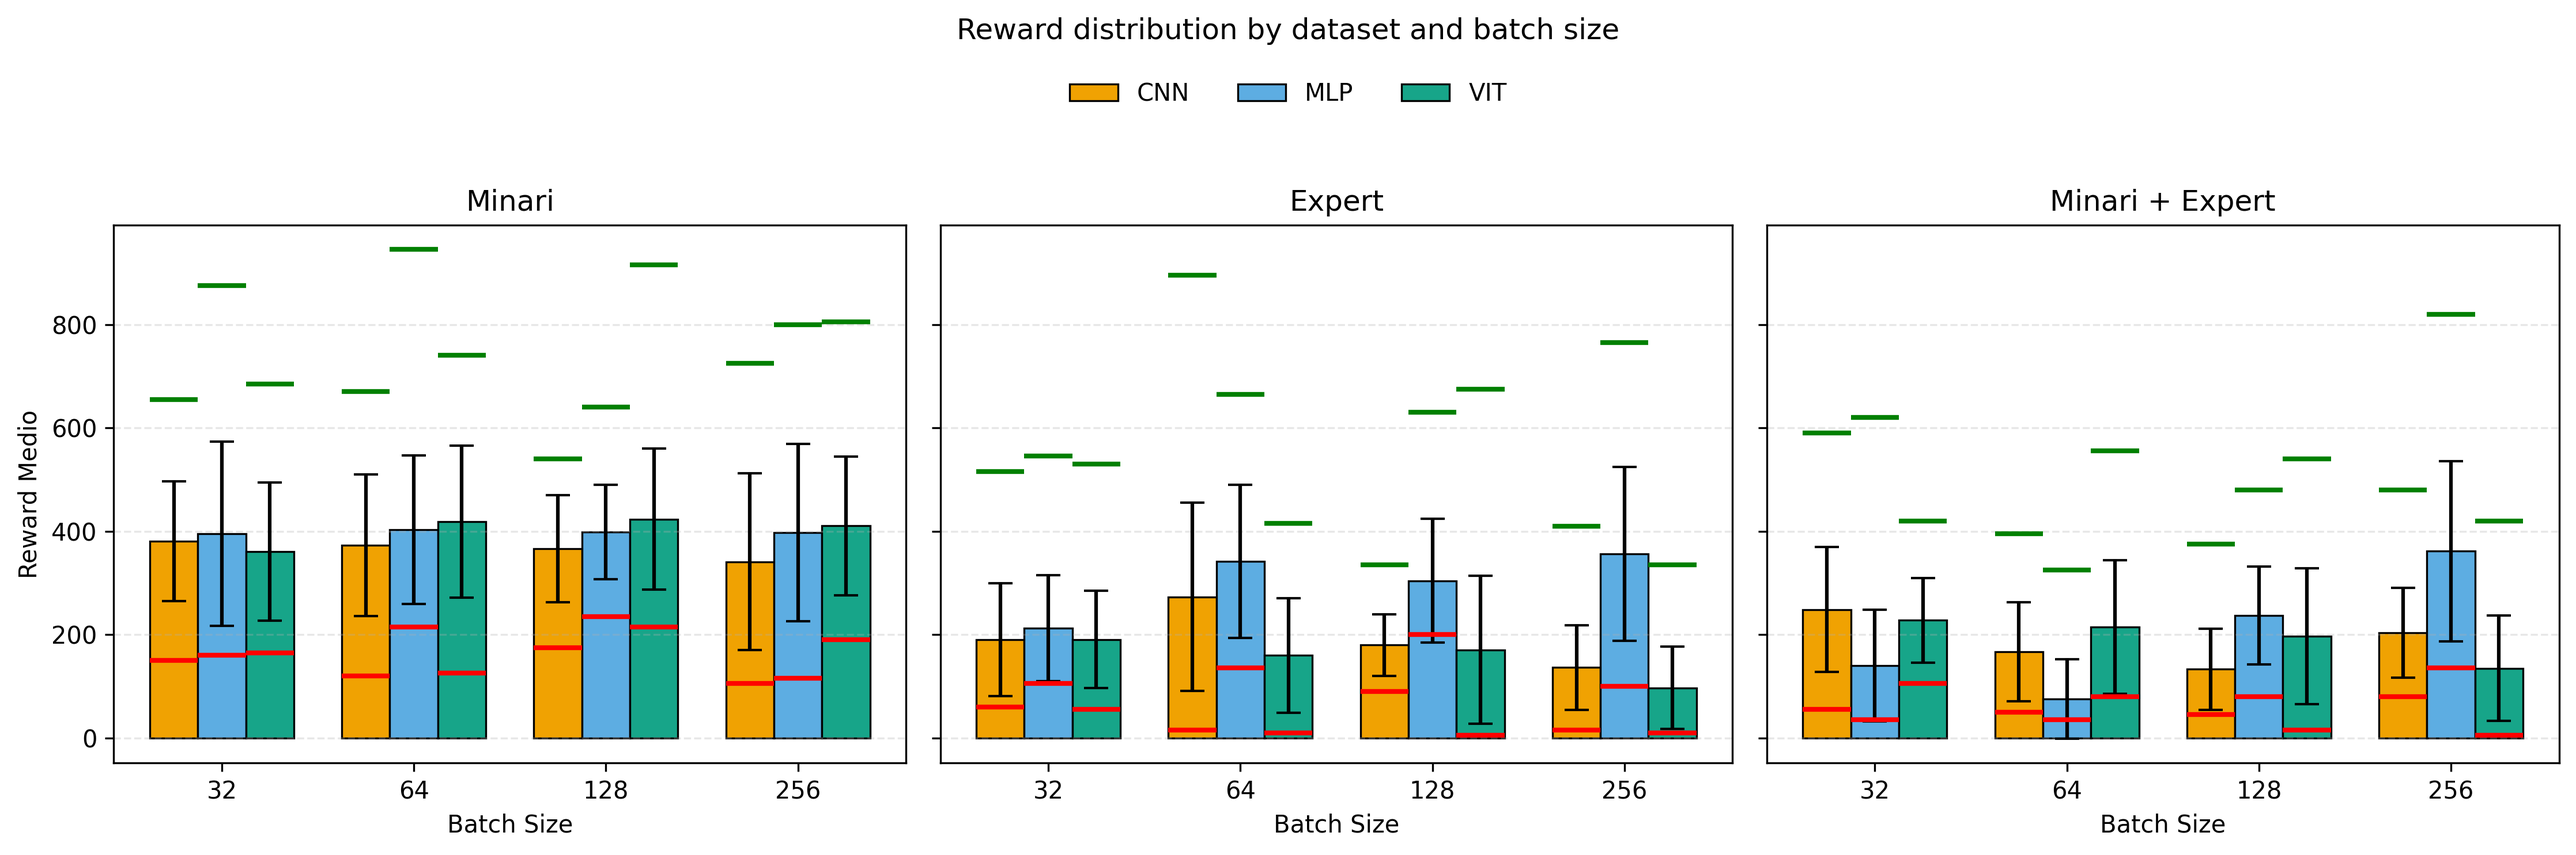
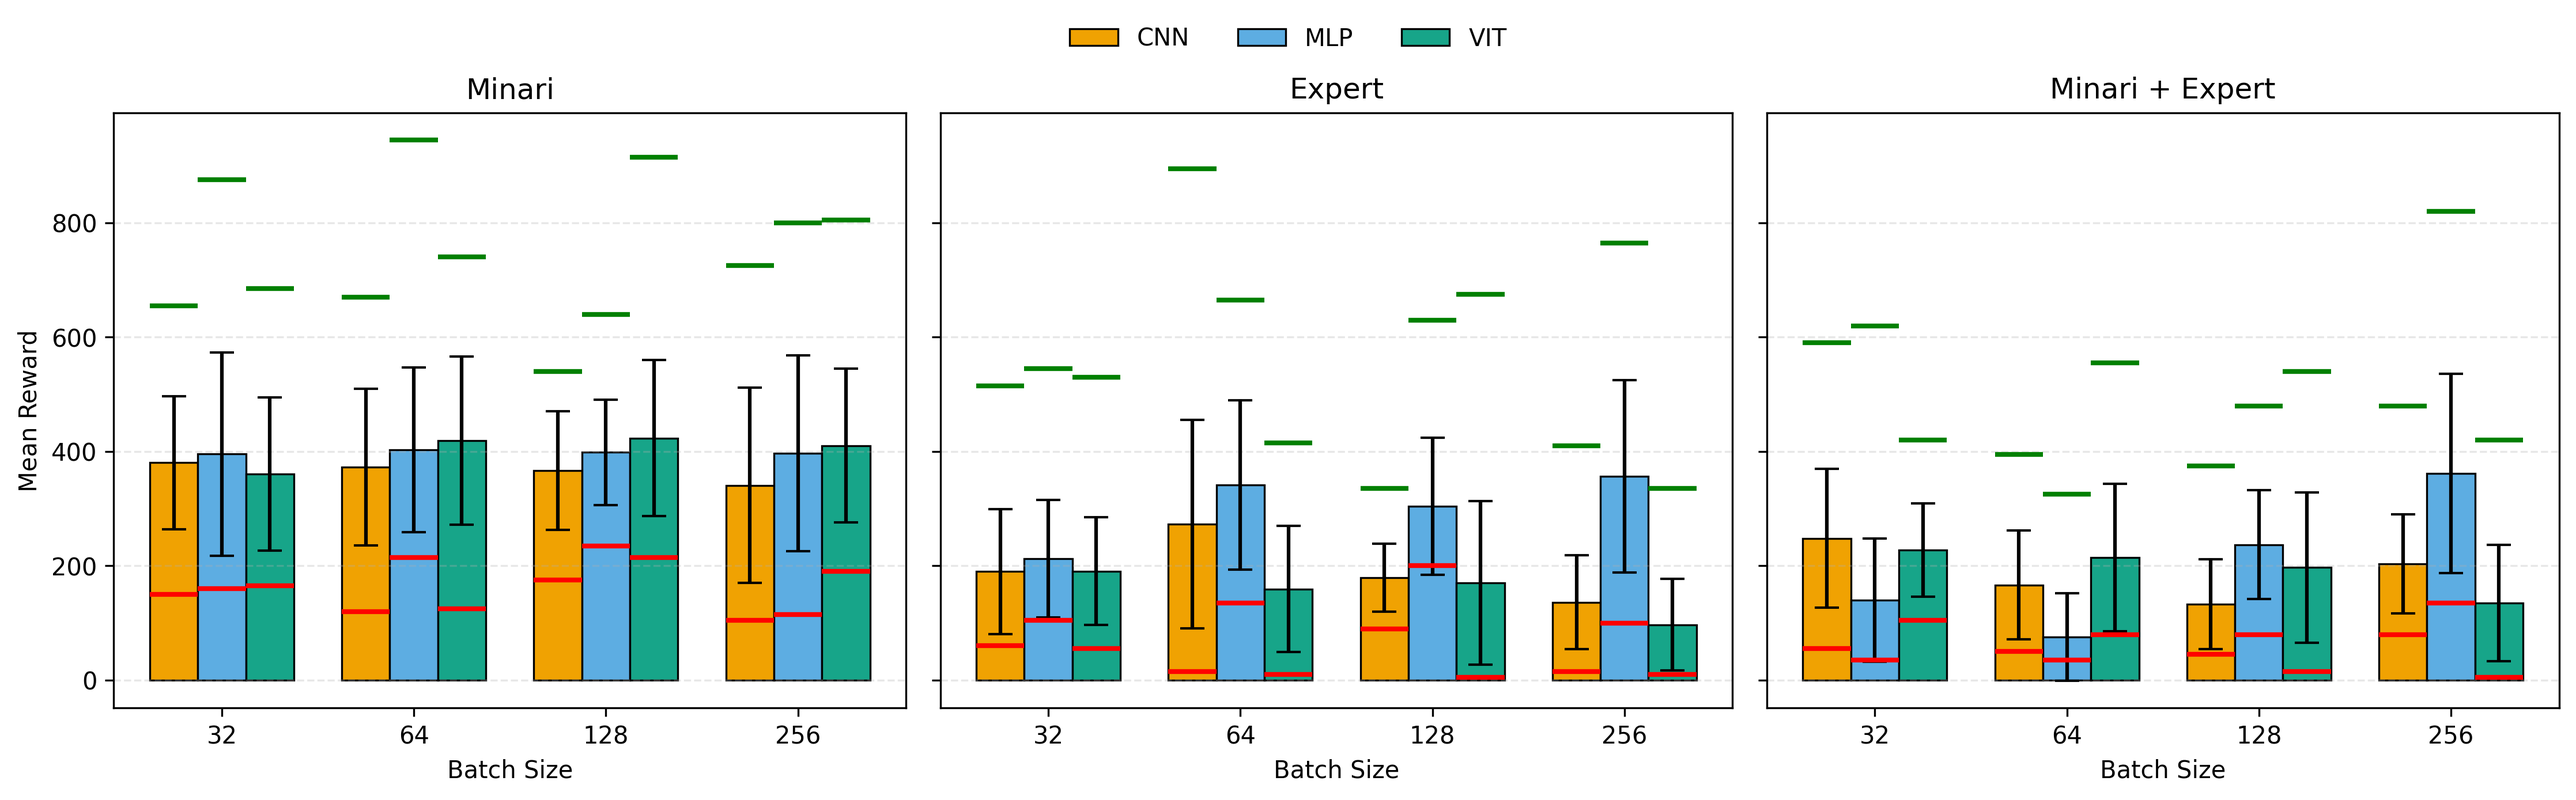
corrected plots legend

diff --git a/plot_results/plot_histogram.py b/plot_results/plot_histogram.py
@@ -111,9 +111,9 @@ def plot_rewards(csv_path: str | pathlib.Path) -> None:
     for idx, (ax, dataset) in enumerate(zip(axes, DATASET_ORDER)):
         _plot_dataset_panel(ax, df, dataset, batches, add_legend_labels=(idx == 0))
 
-    axes[0].set_ylabel("Reward Medio")
+    axes[0].set_ylabel("Mean Reward")
     handles, labels = axes[0].get_legend_handles_labels()
-    fig.suptitle("Reward distribution by dataset and batch size", y=0.98)
+    # fig.suptitle("Reward distribution by dataset and batch size", y=0.98)
     fig.legend(
         handles,
         labels,
@@ -134,7 +134,7 @@ def plot_rewards(csv_path: str | pathlib.Path) -> None:
         fig_single, ax_single = plt.subplots(figsize=(6, 5))
         _plot_dataset_panel(ax_single, df, dataset, batches, add_legend_labels=True)
 
-        ax_single.set_ylabel("Reward Medio")
+        ax_single.set_ylabel("Mean Reward")
         ax_single.legend(loc="upper right", frameon=True)
         ax_single.set_title(f"Reward distribution - {dataset}")
         fig_single.tight_layout()
